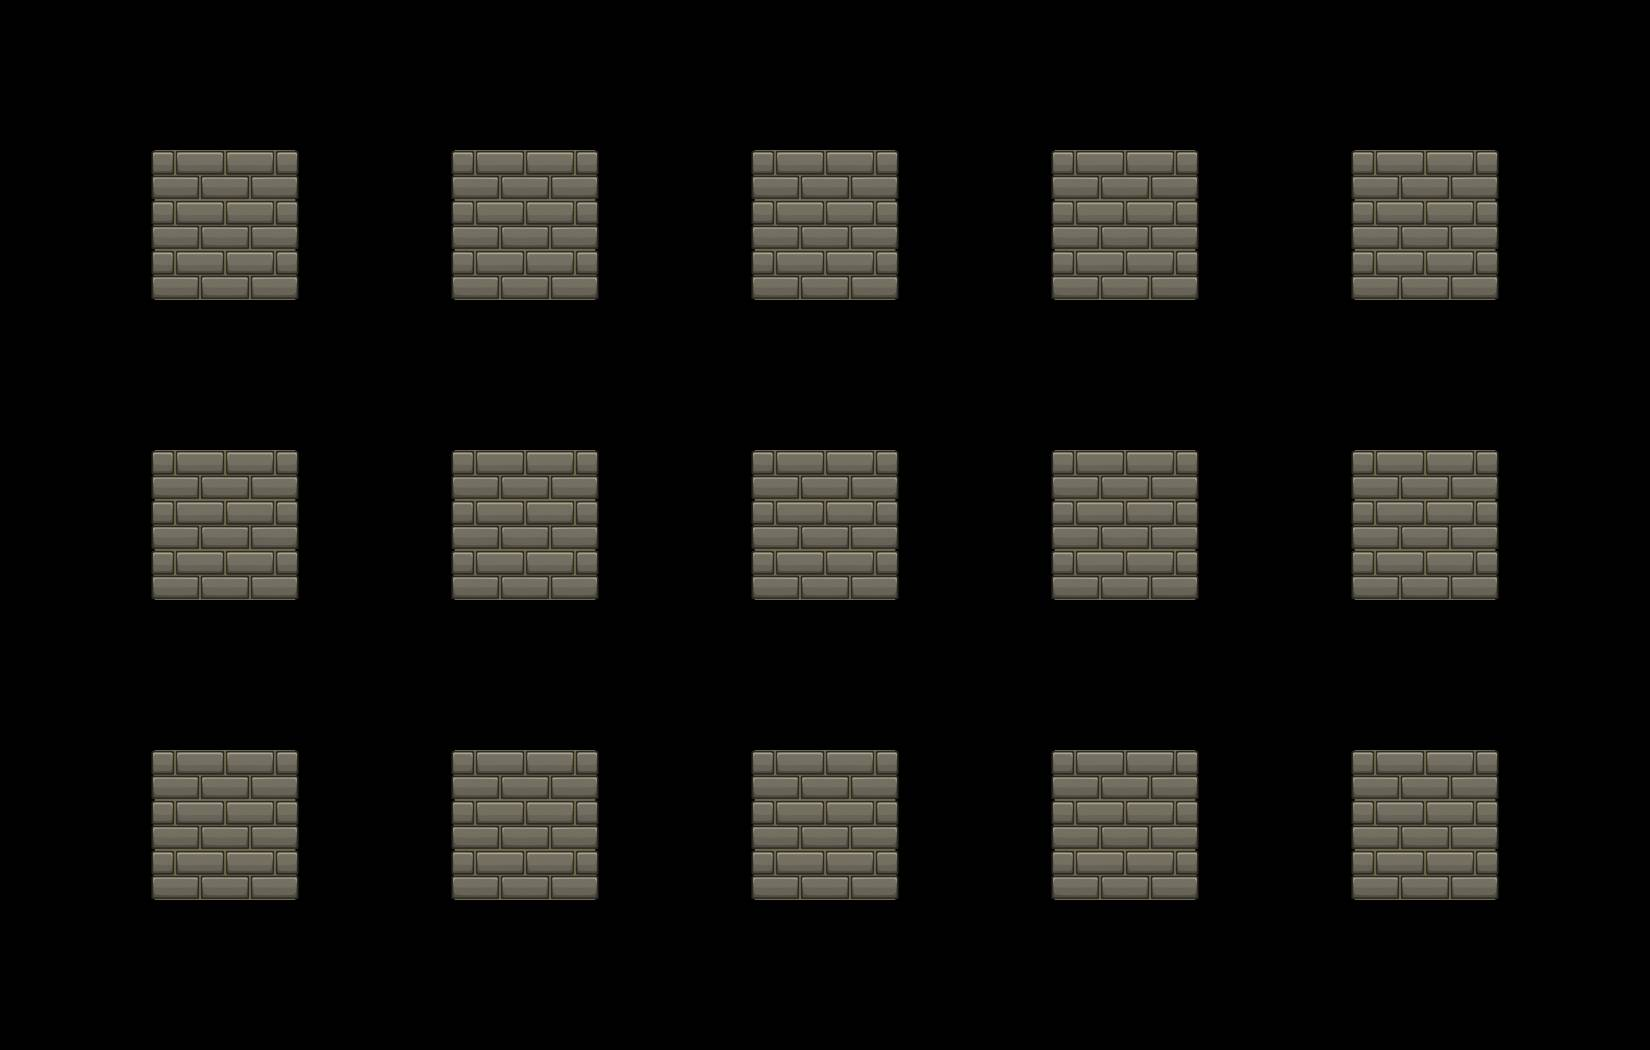
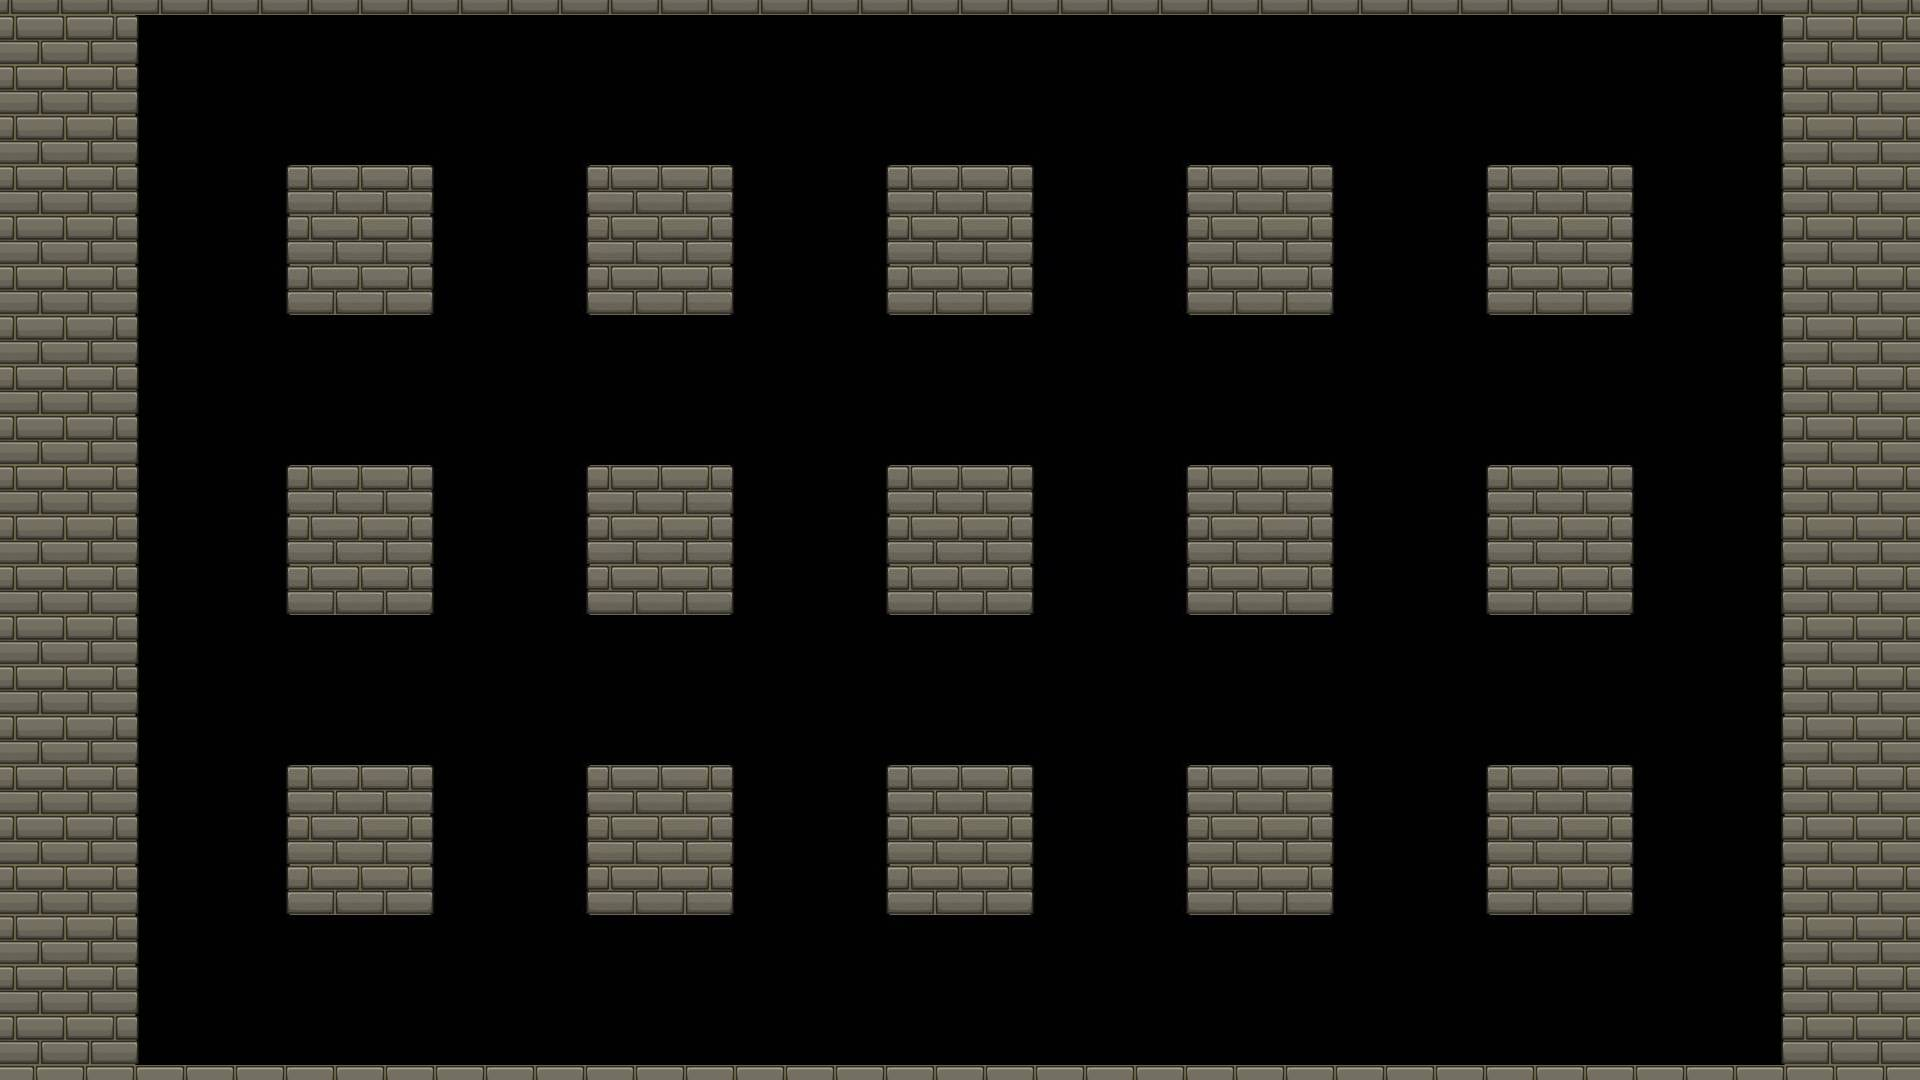
bordure de map + retour en 1920 x 1080

diff --git a/src/map.c b/src/map.c
@@ -3,15 +3,15 @@
 
 /*----------------------------------------------------------------------------------------------------------------------------------------------------------------------------------------------------------------------------------------------------------------*/
 
-void create_map(Map map[][HAUTEUR / 150])
+void create_map(Map map[][HAUTEUR])
 {
     int i, j;
 
-    for(i = 0 ; i < LARGEUR / 150 ; i++)
-        for(j = 0 ; j < HAUTEUR / 150 ; j++)
+    for(i = 0 ; i < LARGEUR ; i++)
+        for(j = 0 ; j < HAUTEUR ; j++)
         {
-            map[i][j].coord_case.x = i * 150;
-            map[i][j].coord_case.y = j * 150;
+            map[i][j].coord_case.x = i * 150 + MUR_LARGEUR;
+            map[i][j].coord_case.y = j * 150 + MUR_HAUTEUR;
             map[i][j].coord_case.w = 150;
             map[i][j].coord_case.h = 150;
 
@@ -27,27 +27,27 @@ void create_map(Map map[][HAUTEUR / 150])
     map[1][0].type = VIDE;
     map[0][1].type = VIDE;
 
-    map[LARGEUR / 150 - 1][0].type = VIDE;
-    map[LARGEUR / 150 - 2][0].type = VIDE;
-    map[LARGEUR / 150 - 1][1].type = VIDE;
+    map[LARGEUR - 1][0].type = VIDE;
+    map[LARGEUR - 2][0].type = VIDE;
+    map[LARGEUR - 1][1].type = VIDE;
 
-    map[0][HAUTEUR / 150 - 1].type = VIDE;
-    map[0][HAUTEUR / 150 - 2].type = VIDE;
-    map[1][HAUTEUR / 150 - 1].type = VIDE;
+    map[0][HAUTEUR - 1].type = VIDE;
+    map[0][HAUTEUR - 2].type = VIDE;
+    map[1][HAUTEUR - 1].type = VIDE;
 
-    map[LARGEUR / 150 - 1][HAUTEUR / 150 - 1].type = VIDE;
-    map[LARGEUR / 150 - 2][HAUTEUR / 150 - 1].type = VIDE;
-    map[LARGEUR / 150 - 1][HAUTEUR / 150 - 2].type = VIDE;
+    map[LARGEUR - 1][HAUTEUR - 1].type = VIDE;
+    map[LARGEUR - 2][HAUTEUR - 1].type = VIDE;
+    map[LARGEUR - 1][HAUTEUR - 2].type = VIDE;
 }
 
 /*----------------------------------------------------------------------------------------------------------------------------------------------------------------------------------------------------------------------------------------------------------------*/
 
-SDL_bool print_wall(Map map[][HAUTEUR / 150], SDL_Renderer *renderer, SDL_Texture *texture_mur_destructible)
+SDL_bool print_wall(Map map[][HAUTEUR], SDL_Renderer *renderer, SDL_Texture *texture_mur_destructible)
 {
     int i, j;
 
-    for(i = 0 ; i < LARGEUR / 150 ; i++) 
-        for(j = 0 ; j < HAUTEUR / 150 ; j++)
+    for(i = 0 ; i < LARGEUR ; i++) 
+        for(j = 0 ; j < HAUTEUR ; j++)
             if(map[i][j].type == MUR_DESTRUCTIBLE)
                 if(SDL_RenderCopy(renderer, texture_mur_destructible, NULL, &map[i][j].coord_case) != 0)
                 {
@@ -60,12 +60,12 @@ SDL_bool print_wall(Map map[][HAUTEUR / 150], SDL_Renderer *renderer, SDL_Textur
 
 /*----------------------------------------------------------------------------------------------------------------------------------------------------------------------------------------------------------------------------------------------------------------*/
 
-void detecte_map(Map map[][HAUTEUR / 150], Link *link, const int direction)
+void detecte_map(Map map[][HAUTEUR], Link *link, const int direction)
 {
     int i, j;
 
-    for(i = 0 ; i < LARGEUR / 150 ; i++)
-        for(j = 0 ; j < HAUTEUR / 150 ; j++)
+    for(i = 0 ; i < LARGEUR ; i++)
+        for(j = 0 ; j < HAUTEUR ; j++)
         {
             if(SDL_HasIntersection(&link->hitbox, &map[i][j].coord_case))   
             {
@@ -111,25 +111,25 @@ void deplacer_joueur(Link *link, const int direction)
 {
     link->direction_actuel = link->direction[direction];
 
-    if(direction == HAUT && link->forme.y > 0)
+    if(direction == HAUT && link->hitbox.y > MUR_HAUTEUR)
     {
         link->forme.y--;
         link->hitbox.y--;
     }
 
-    if(direction == BAS && (link->forme.y + link->forme.h) < HAUTEUR)
+    if(direction == BAS && (link->hitbox.y + link->hitbox.h) < HAUTEUR_WINDOW + MUR_HAUTEUR)
     {
         link->forme.y++;
         link->hitbox.y++;
     }
 
-    if(direction == GAUCHE && link->forme.x > 0)
+    if(direction == GAUCHE && link->hitbox.x > MUR_LARGEUR)
     {
         link->forme.x--;
         link->hitbox.x--;
     }
 
-    if(direction == DROITE && (link->forme.x + link->forme.w) < LARGEUR)
+    if(direction == DROITE && (link->hitbox.x + link->hitbox.w) < LARGEUR_WINDOW + MUR_LARGEUR)
     {
         link->forme.x++;
         link->hitbox.x++;

diff --git a/src/appel.h b/src/appel.h
@@ -8,9 +8,9 @@ int play(SDL_Renderer *renderer, Input *in);
 
 /*----------------------------------------------------------------------------------------------------------------------------------------------------------------------------------------------------------------------------------------------------------------*/
 
-void create_map(Map map[][HAUTEUR / 150]);
-SDL_bool print_wall(Map map[][HAUTEUR / 150], SDL_Renderer *renderer, SDL_Texture *texture_mur_destructible);
-void detecte_map(Map map[][HAUTEUR / 150], Link *link, const int direction);
+void create_map(Map map[][HAUTEUR]);
+SDL_bool print_wall(Map map[][HAUTEUR], SDL_Renderer *renderer, SDL_Texture *texture_mur_destructible);
+void detecte_map(Map map[][HAUTEUR], Link *link, const int direction);
 void deplacer_joueur(Link *link, const int direction);
 
 /*----------------------------------------------------------------------------------------------------------------------------------------------------------------------------------------------------------------------------------------------------------------*/

diff --git a/src/constante.h b/src/constante.h
@@ -7,11 +7,16 @@
 #include <stdio.h>
 #include <SDL.h>
 #include <SDL_image.h>
+#include <time.h>
 
 /*----------------------------------------------------------------------------------------------------------------------------------------------------------------------------------------------------------------------------------------------------------------*/
 
-#define LARGEUR 1650
-#define HAUTEUR 1050
+#define LARGEUR_WINDOW 1920
+#define HAUTEUR_WINDOW 1080
+#define MUR_LARGEUR 135
+#define MUR_HAUTEUR 15
+#define LARGEUR 11
+#define HAUTEUR 7
 #define FPS 16
 
 /*----------------------------------------------------------------------------------------------------------------------------------------------------------------------------------------------------------------------------------------------------------------*/

diff --git a/src/play.c b/src/play.c
@@ -24,9 +24,8 @@ int play(SDL_Renderer *renderer, Input *in)
     SDL_bool game_launched = SDL_TRUE;
     SDL_Texture *texture_arriere_plan = NULL, *texture_mur_destructible = NULL;
     Link link;
-    Map map[LARGEUR / 150][HAUTEUR / 150];
-    SDL_Rect mur = {0, 0, 150, 150};
-    unsigned int frame_limit = 0;   
+    Map map[LARGEUR][HAUTEUR];
+    unsigned int frame_limit = 0;  
 
     create_map(map);
 
@@ -124,7 +123,7 @@ int play(SDL_Renderer *renderer, Input *in)
             detecte_map(map, &link, DROITE);
         }
 
-        limite_fps(frame_limit, 1);
+        limite_fps(frame_limit, 1); 
     } 
 
     destroy_play(texture_arriere_plan, &link, texture_mur_destructible);

diff --git a/src/link.c b/src/link.c
@@ -48,11 +48,11 @@ int create_link(Link *link, SDL_Renderer *renderer)
         return -1;
     }
 
-    link->forme.x = 0;
-    link->forme.y = 0;
+    link->forme.x = 135;
+    link->forme.y = 15;
 
-    link->hitbox.x = 5;
-    link->hitbox.y = 10;
+    link->hitbox.x = 140;
+    link->hitbox.y = 25;
     link->hitbox.w = 80;
     link->hitbox.h = 105;
 

diff --git a/src/main.c b/src/main.c
@@ -18,7 +18,7 @@ int main(int argc, char *argv[])
 
     memset(&in, SDL_FALSE, sizeof(Input));
 
-    if(init(&window, &renderer, LARGEUR, HAUTEUR) != 0)
+    if(init(&window, &renderer, LARGEUR_WINDOW, HAUTEUR_WINDOW) != 0)
         goto quit;
 
     texture_menu = load_image("src/images/menu.jpg", renderer);
